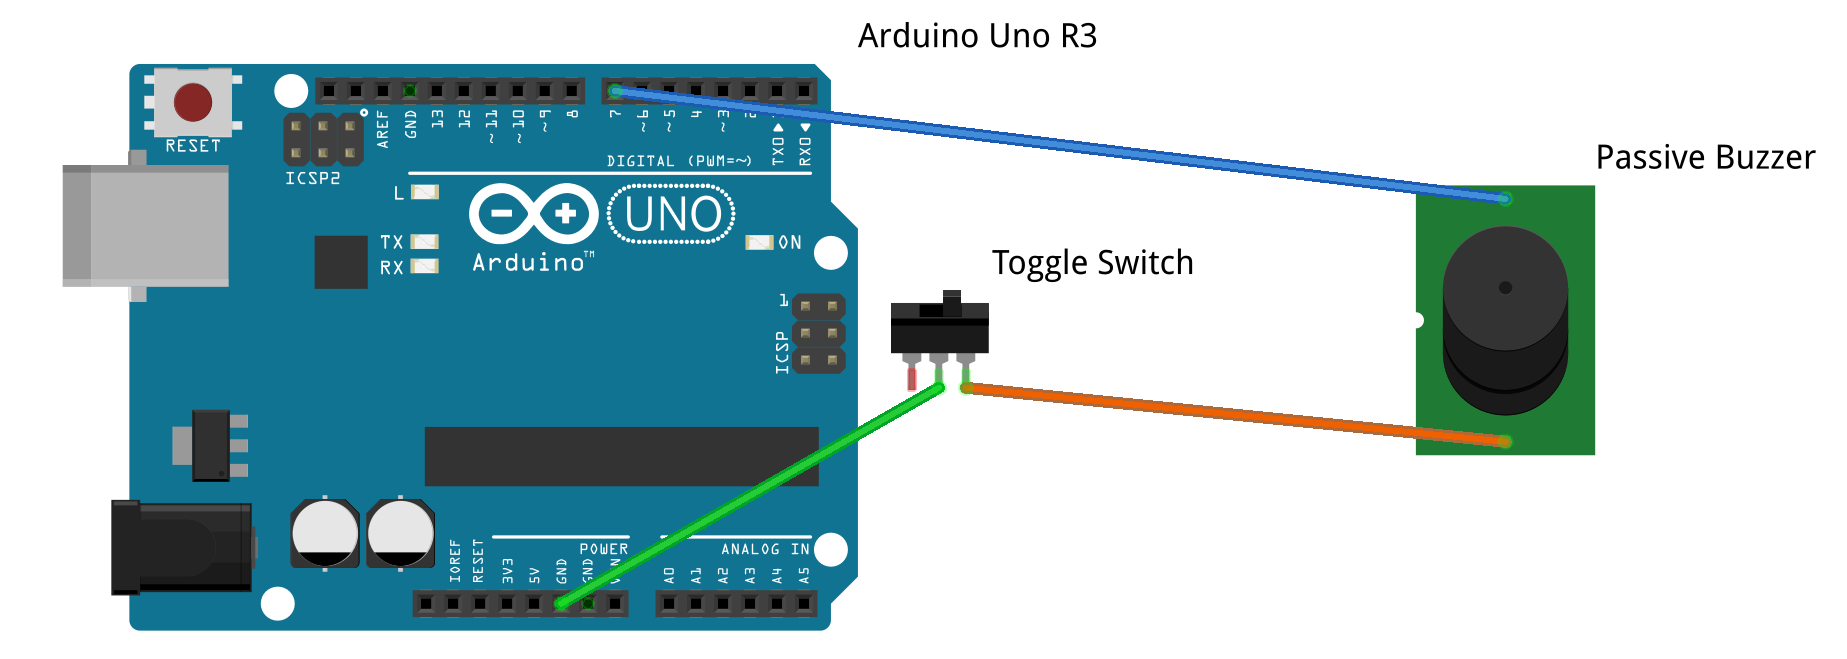
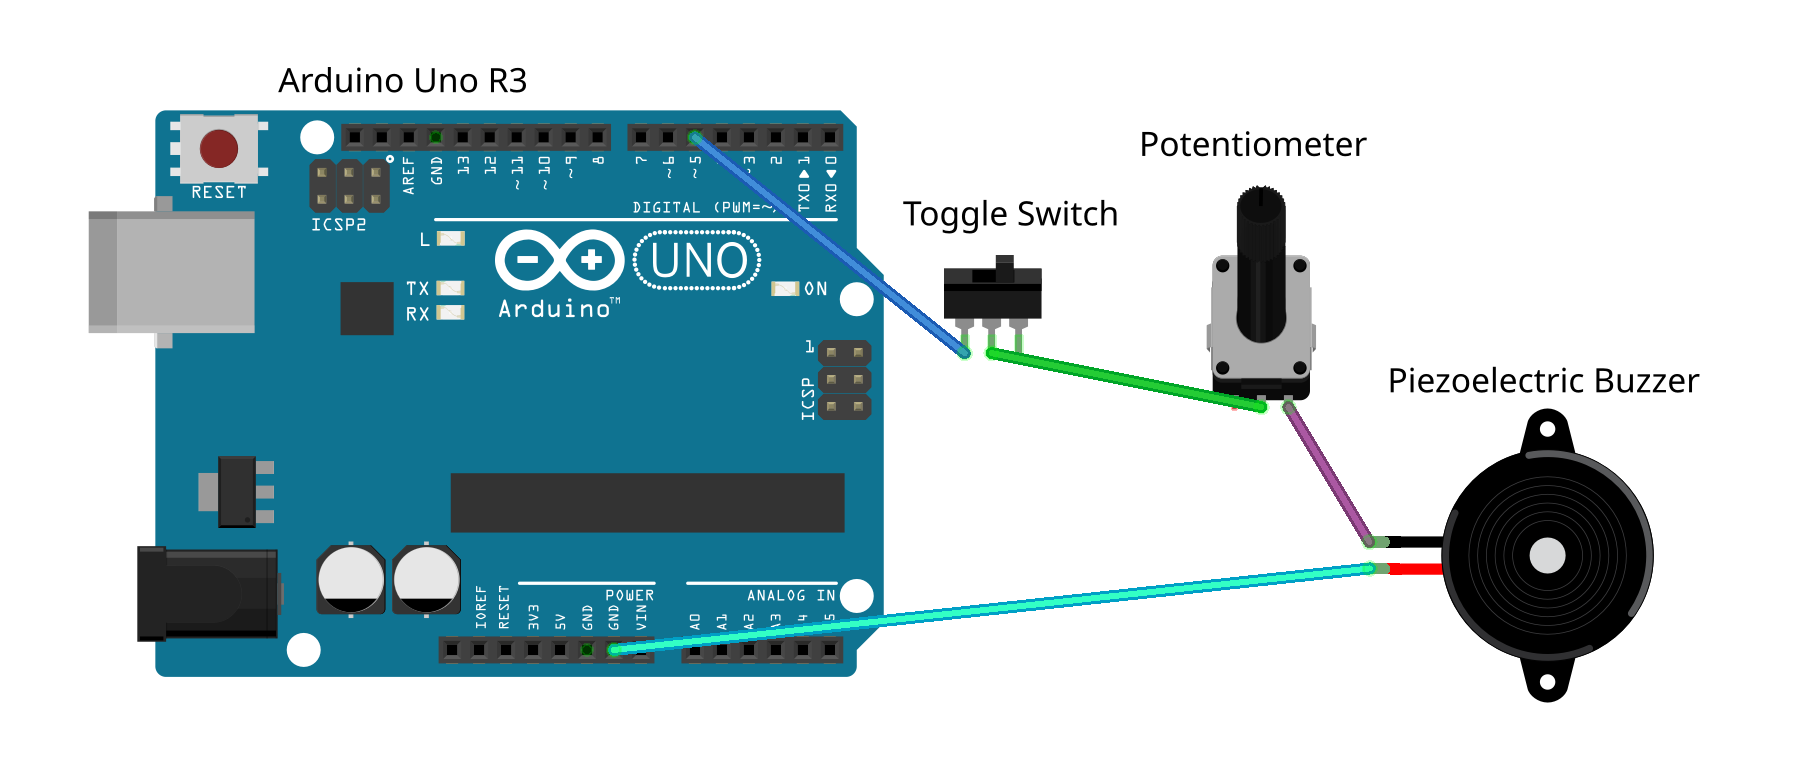
update readme

diff --git a/README.md b/README.md
@@ -1,125 +1,230 @@
 # An Arduino Sound Project
 
-This is a personal project exploring the concepts of simple digital sound/music, code generation, and microcontrollers. The main goal is to create software that will enable an Arduino Uno to play music initially contained in an [`.abc`](https://abcnotation.com/) file. I have chosen to write it in C in order to further my experience in the language.
+This is a personal project exploring the concepts of simple digital sound/music,
+code generation, and microcontrollers.
+The main goal of this project was to have an Arduino Uno play music
+written initially contained in an [`.abc`](https://abcnotation.com/) file.
+I originally chose to write it in C, but I've re-written the entire stack in
+Rust.
 
-## Current Progress
-
-This project is still in its early stages, so please expect bugs and incomplete features. Development is slow due to the fact that I have little free time from university work. I do not recommend using this in production.
-
-### Core functionality 
+### Core functionality
 
 - [x] sequences of sounds can be played via passive buzzer on the Arduino
-- [ ] have the Arduino keep exact time instead of waiting for instructions between notes (probably only gain a couple of milliseconds at best)
+- [ ] high-precision time keeping
 - [ ] `.abc` files can be parsed using a host computer
   - [x] pitch parsing
-  - [ ] length parsing
-  - [ ] switch to regex?
+  - [x] length parsing
+  - [x] switch to ~~regex?~~ parser expression grammar
   - [ ] test coverage including sample `.abc` files
-- [ ] C header files (`.h`) are generated on the host computer
-  - [ ] perhaps generate intermediate data files which are later converted
-- [ ] user-friendly command line interface 
-  - [ ] one command to parse a file, generate code, then build and upload the Arduino program
-- [ ] host computer program to play and test program without the need of an Arduino
-  - [x] can play Note arrays
+  - [ ] ABC time signature
+  - [ ] ABC key signature
+- [x] C header files (`.h`) can be generated on the host computer
+- [x] Arduino C/C++ program can include the generated header file and
+  play its contents
+- [ ] user-friendly command line interface
+  - [ ] one command to parse a file, generate code, then build and upload the
+    Arduino program
+- [x] host computer program can play and test parsing/generation without the
+  need of an Arduino
 
 ### Future Possible Expansions
 
 - [ ] parse MusicXML files
 - [ ] allow for multiple buzzer to play harmonies/chords
-- [ ] re-write in Rust 🦀 (or another Arduino-compatible language)
+- [x] re-write in Rust 🦀
 - [ ] Windows support for build and upload scripts
 
 ## Getting Started
 
-Note this has only been tested on Linux (Debian 10), though it should work on any Unix-like system (BSD, MacOS, Solaris, etc.). You might need to change the upload script if your Arduino is not at `/dev/ttyACM*`.
+Note this has only been tested on Linux (Debian 10 and 11), though it should
+work on any Unix-like system (BSD, MacOS, Solaris, etc.).
+You might need to change the upload script if your Arduino serial port is not
+connected to `/dev/ttyACM*`.
 
-- Clone this repository (`git clone https://github.com/tobias-hildebrandt/arduino_sound`)
-- (Optional) Set up [clangd](https://clangd.llvm.org/) for your editor/IDE of choice. This helps with code completion, errors, etc. I use [vscode-clangd](https://github.com/clangd/vscode-clangd) with [VSCodium](https://vscodium.com/) (an open source binary built from the source code of VSCode). The Arduino build process will still use GCC via `arduino-cli` (see next step), `clangd` is just for language support in the editor.
-  - Note: to get clangd working, you will need to symlink `build/compile_commands.json` to `compile_commands.json` (in the project root directory) after your first build. I used `ln -s $PWD/build/compile_commands.json $PWD/compile_commands.json`. An alternative would be to create a `.clangd` file.
-- (for Arduino support) Install [arduino-cli](https://arduino.github.io/arduino-cli/0.19/installation/). This is necessary for the build scripts. Personally, I downloaded the the archive, extracted it to a directory, and added `arduino-cli` to my `PATH` environment variable. Alternatively, you could use the [Arduino IDE](https://www.arduino.cc/en/software), [Arduino-Makefile](https://github.com/sudar/Arduino-Makefile) (I might use this in the future), or something else.
-  - Install the necessary files for your board. For me and my Arduino Uno, I had to run:
+### Rust Setup
+- Ensure the Rust toolchain is installed (e.g. using
+  [rustup](https://rustup.rs/)).
+- (Optional) Set up [rust-analyzer](https://rust-analyzer.github.io/) for your
+  editor/IDE. If you do, make sure to add `ard-r-sound-embedded`
+  (the Arduino executable crate) to `rust-analyzer.files.excludeDirs`.
+  This is necessary because the crate must be on `nightly` and has a
+  specific forced build target.
+  This also means that if you want to use `rust-analyzer` with this crate,
+  you need to open another instance of your editor/IDE from _inside_ of
+  its directory.
+
+### C Setup
+- (Optional) Set up [clangd](https://clangd.llvm.org/) for your editor/IDE.
+  I use [vscode-clangd](https://github.com/clangd/vscode-clangd) with
+  [VSCodium](https://vscodium.com/).
+  The Arduino build process will still use  `avr-gcc` from `arduino-cli`
+  (see next step), `clangd` is just for language support in the editor.
+  In order for the build scripts to generate valid and complete
+  `compile_commands.json` compilation databases (using `-MJ`),
+  `clang` is required.
+- (for Arduino support) Install
+  [arduino-cli](https://arduino.github.io/arduino-cli/0.19/installation/).
+  This is necessary for the build scripts.
+  Personally, I downloaded the archive, extracted it to a directory, and
+  added `arduino-cli` to my `PATH` environment variable.
+  Alternatively, you could use the
+  [Arduino IDE](https://www.arduino.cc/en/software),
+  [Arduino-Makefile](https://github.com/sudar/Arduino-Makefile),
+  or something else.
+  - Install the necessary files for your board. For my Arduino Uno, I had
+    to run:
 
     `arduino-cli config init`
 
-  `  arduino-cli core update-index`
+    `arduino-cli core update-index`
 
     `arduino-cli core install arduino:avr`
-- (for desktop player) Install the SDL2 library. On Debian-based systems, this is done via `sudo apt-get install libsdl2-dev`
-- See [the usage section of this readme](#usage) for build and execution details.
+- (for desktop player) Install `clang` and the SDL2 library.
+  On Debian-based systems, this is done via
+  `sudo apt-get install clang libsdl2-dev`.
 
-## Usage
+## Usage of Rust Implementation
 
-#### `make build_arduino`: 
+### Desktop tool
+Build via `cargo build`
+  - add `--release` if you want an optimized build
+  - the `ard-r-sound` binary will be in `target/debug` or `target/release/`
 
-Build the music program for an Arduino Uno. Evenutally there will be a better interface for building and including songs. **Currently, it builds an Arduino executable that loops through diagnostics (scales, Mary Had A Little Lamb, etc.).** 
+Usage:
+- `ard-r-sound <input_file.abc> [-f <output format>] [-o <output_file_path>]`
+- `-f` options (all require a `-o` except `play`)
+  - `raw` = raw PCM audio file
+  - `wav` = WAV audio file
+    (via [wav](https://crates.io/crates/wav))
+  - `header` = generate a C header for use with the C implementation
+    - Note that the C implementation looks for `out/out.h`
+  - `play` = play audio through computer speakers (via
+    [`cpal`](https://github.com/RustAudio/cpal))
 
-The build process is a bit odd, since I need `src/ard_sound/clangd_arudino.h` to help with `clangd` language support, but I don't want it to actually be built with it. See `scripts/build_arduino.sh` for more details.
+### Arduino
+The `ard-r-sound-embedded` crate builds into an Arduino executable.
 
-This will also create the Arduino-specific `compile_commands.json` in `/build`.
+Using `arduino_hal`, it can be built and uploaded in a single command
+(assuming you've done `cd ard-r-sound-embedded/` first!):
+- `cargo run -- -P <device_file>` (probably /dev/ttyACM0)
 
-#### `make upload_arduino` 
+The `ard_r_sound_macros::static_from_file!{variable_name, file_path}`
+procedural macro parses and optimizes an abc file.
+- `variable_name` must be a valid Rust identifier.
+- `file_path` is a file path -- not a `String` or `&str` or `Path`
+  - This is implemented by concatenating the rest of the syntax tokens passed
+    to the macro.
 
-Attempt to upload the built program to **every device in /dev/ttyACM\***. This is done because power-cycling an Arduino will often change its device file between `ttyACM0` and `ttyACM1`.  
+For example,
+`static_from_file!{SONG, ../misc/example-abcs/mary.abc}`
+expands to something like:
+```rs
+static SONG: ard_r_sound_base::OptimizedStatic<...> =
+    ard_r_sound_base::OptimizedStatic<...> {
+      // unique notes
+      uniques: [...],
+      // the song itself, stored as indexes of the uniques array
+      list: [...],
+    };
+```
+The `OptimizedStatic` struct is const-generic over the amount of unique
+notes in the song and total number of notes in the song.
 
-#### `make desktop`
+## Usage of C Implementation
 
-Build the parser and desktop player. This will create the executable `build/parse` and `build/player`.
+**The C parser, code-generator, and SDL desktop player
+are incomplete and no longer updated.
+Use the Rust implementation for a more complete feature set.**
+
+### `make <file.abc>`
+
+Run the parser on a file.
+This generates a C header file (`out/out.h`) containing an optimized
+representation of the song.
+
+### `make build_arduino`
+
+Build the program for an Arduino Uno.
+Uses the song-header in `out/out.h` (which can be generated by either the
+Rust or C implementation).
+
+### `make upload_arduino`
+
+Attempt to upload the built program to **every device in /dev/ttyACM\***.
+This is done because (on my machine, at least) power-cycling an Arduino may
+change its device file between `ttyACM0` and `ttyACM1`.
+
+### `make desktop`
+
+Build the parser and desktop player.
+This will create the executable `build/desktop/parse`.
 
 Building the player requires SDL2.
 
-This will also create the desktop-specific `compile_commands.json`.
-
-#### `build/parse <file.abc>`
-
-Run the parser on your computer. Eventually, this should generate C code in the form of header files. **(not yet fully implemented)**
 
 ## Architecture and Design
 
 ### Wiring Schematic
-The Arduino itself should wired up similarly to the following diagram:
+The Arduino should wired up similarly to the following diagram:
 
 ![Wiring Diagram](/misc/wiring/wiring_diagram.png)
 
-(diagram made with [Fritzing](https://fritzing.org/) and [GIMP](https://www.gimp.org/))
+(diagram made with [Fritzing](https://fritzing.org/) and
+[GIMP](https://www.gimp.org/))
 
-The toggle switch is there if you want to disable the sound output without unplugging the Arduino. Very useful if you want to avoid going crazy :), but certainly not necessary. Just connect ground directly to the passive buzzer if you don't want it.
+The toggle switch is there in order to disable the sound output without
+unplugging the Arduino.
+Additionally, the potentiometer is put in-line to reduce the volume of
+the buzzer.
+These are useful for testing but not necessary.
+A resistor could be used in place of the potentiometer if a constant volume
+reduction is needed.
 
-The specific digital pin that you use isn't important, but (currently) it is hardcoded to be **pin 7**.
+The specific digital pin that you use isn't important,
+but it is currently hardcoded to be ***pin 5***.
 
 ### Software Design
 
-C code will be generated from a program that is run beforehand on a host computer. This is done via a C program that parses an `abc` file **(this is not yet fully implemented)**. 
+The `abc` file is parsed into an internal representation, then converted
+into a more space-efficient format.
 
-The main goal of this approach is to reduce executable size. Via [the Arduino website](https://www.arduino.cc/en/pmwiki.php?n=Tutorial/Memory): 
+The main goal of this approach is to reduce executable size.
+Via [the Arduino website](https://www.arduino.cc/en/pmwiki.php?n=Tutorial/Memory):
 
 > The ATmega328 chip found on the Uno has the following amounts of memory:
-> 
+>
 > `Flash  32k bytes (of which .5k is used for the bootloader)`
-> 
+>
 > `SRAM   2k bytes`
-> 
+>
 > `EEPROM 1k byte`
 
-By pre-generating our "songs" via a parser, we are able to figure out beforehand exactly which notes we need, then create them in a `const` fashion by generating code. Thus, the Arduino "song" will not be a sequence of notes, but rather a sequence of references to pre-generated `const` notes.
-
-Whether or not this will have a significant effect on the compiled size of the program depends on the number of repeated notes of the specific song, as well as the pointer size of the platform (`16 bits` on the Uno).
-
-This design might be re-evalutated in the future depending on performance.
-
-For notes on the parser, see [the parser's README](src/generator/README.md).
+By pre-processing the song, we are able to de-duplicate the notes and
+save space.
+Thus, the song in Arduino memory is not an array of "full-fat" notes,
+but two arrays: one that contains unique notes and another
+that contains indexes/references to those unique notes.
+Since this is all done before the program is actually compiled,
+this data can reside in read-only memory instead of RAM.
+The actual compression/efficiency ratio of this technique depends on the
+number of repeated notes of a specific song.
 
 ## License
 
-Unless otherwise noted, all files in this reporitory are released under the terms of the GNU General Public License version 3 or, at your choice, any later version. (GPLv3+). See [COPYING](COPYING) for more details.
-
-## Contributors
-
-At this time, I ([Tobias H.](https://github.com/tobias-hildebrandt)) am the sole contributor and maintainer. If you feel like contributing, send a Pull Request or shoot me a message!
+Unless otherwise noted, all files in this repository are released under the
+terms of the GNU General Public License version 3 or, at your choice,
+any later version. (GPLv3+). See [COPYING](COPYING) for more details.
 
 ## Additional Reading
 
-- `.abc` notation: [ABC Notation Homepage](https://abcnotation.com/), [ABC examples](https://abcnotation.com/examples), [the ABC Standard](https://abcnotation.com/wiki/abc:standard:v2.1), [the ABC Plus Project](http://abcplus.sourceforge.net/)
-- Formula for note frequency: [One explanation](https://pages.mtu.edu/~suits/NoteFreqCalcs.html), [another explanation](https://en.wikipedia.org/wiki/Piano_key_frequencies)
-- A cool code generator: [iMatix GSL code generator](https://github.com/imatix/gsl)
-- Making tones in SDL [SDL2 tone generator](https://gist.github.com/jacobsebek/10867cb10cdfccf1d6cfdd24fa23ee96)
+- `.abc` notation:
+  [ABC Notation Homepage](https://abcnotation.com/),
+  [ABC examples](https://abcnotation.com/examples),
+  [the ABC Standard](https://abcnotation.com/wiki/abc:standard:v2.1),
+  [the ABC Plus Project](http://abcplus.sourceforge.net/)
+- Formula for note frequency:
+  [One explanation](https://pages.mtu.edu/~suits/NoteFreqCalcs.html),
+  [another explanation](https://en.wikipedia.org/wiki/Piano_key_frequencies)
+- Making tones in SDL:
+  [SDL2 tone generator](https://gist.github.com/jacobsebek/10867cb10cdfccf1d6cfdd24fa23ee96)
 
